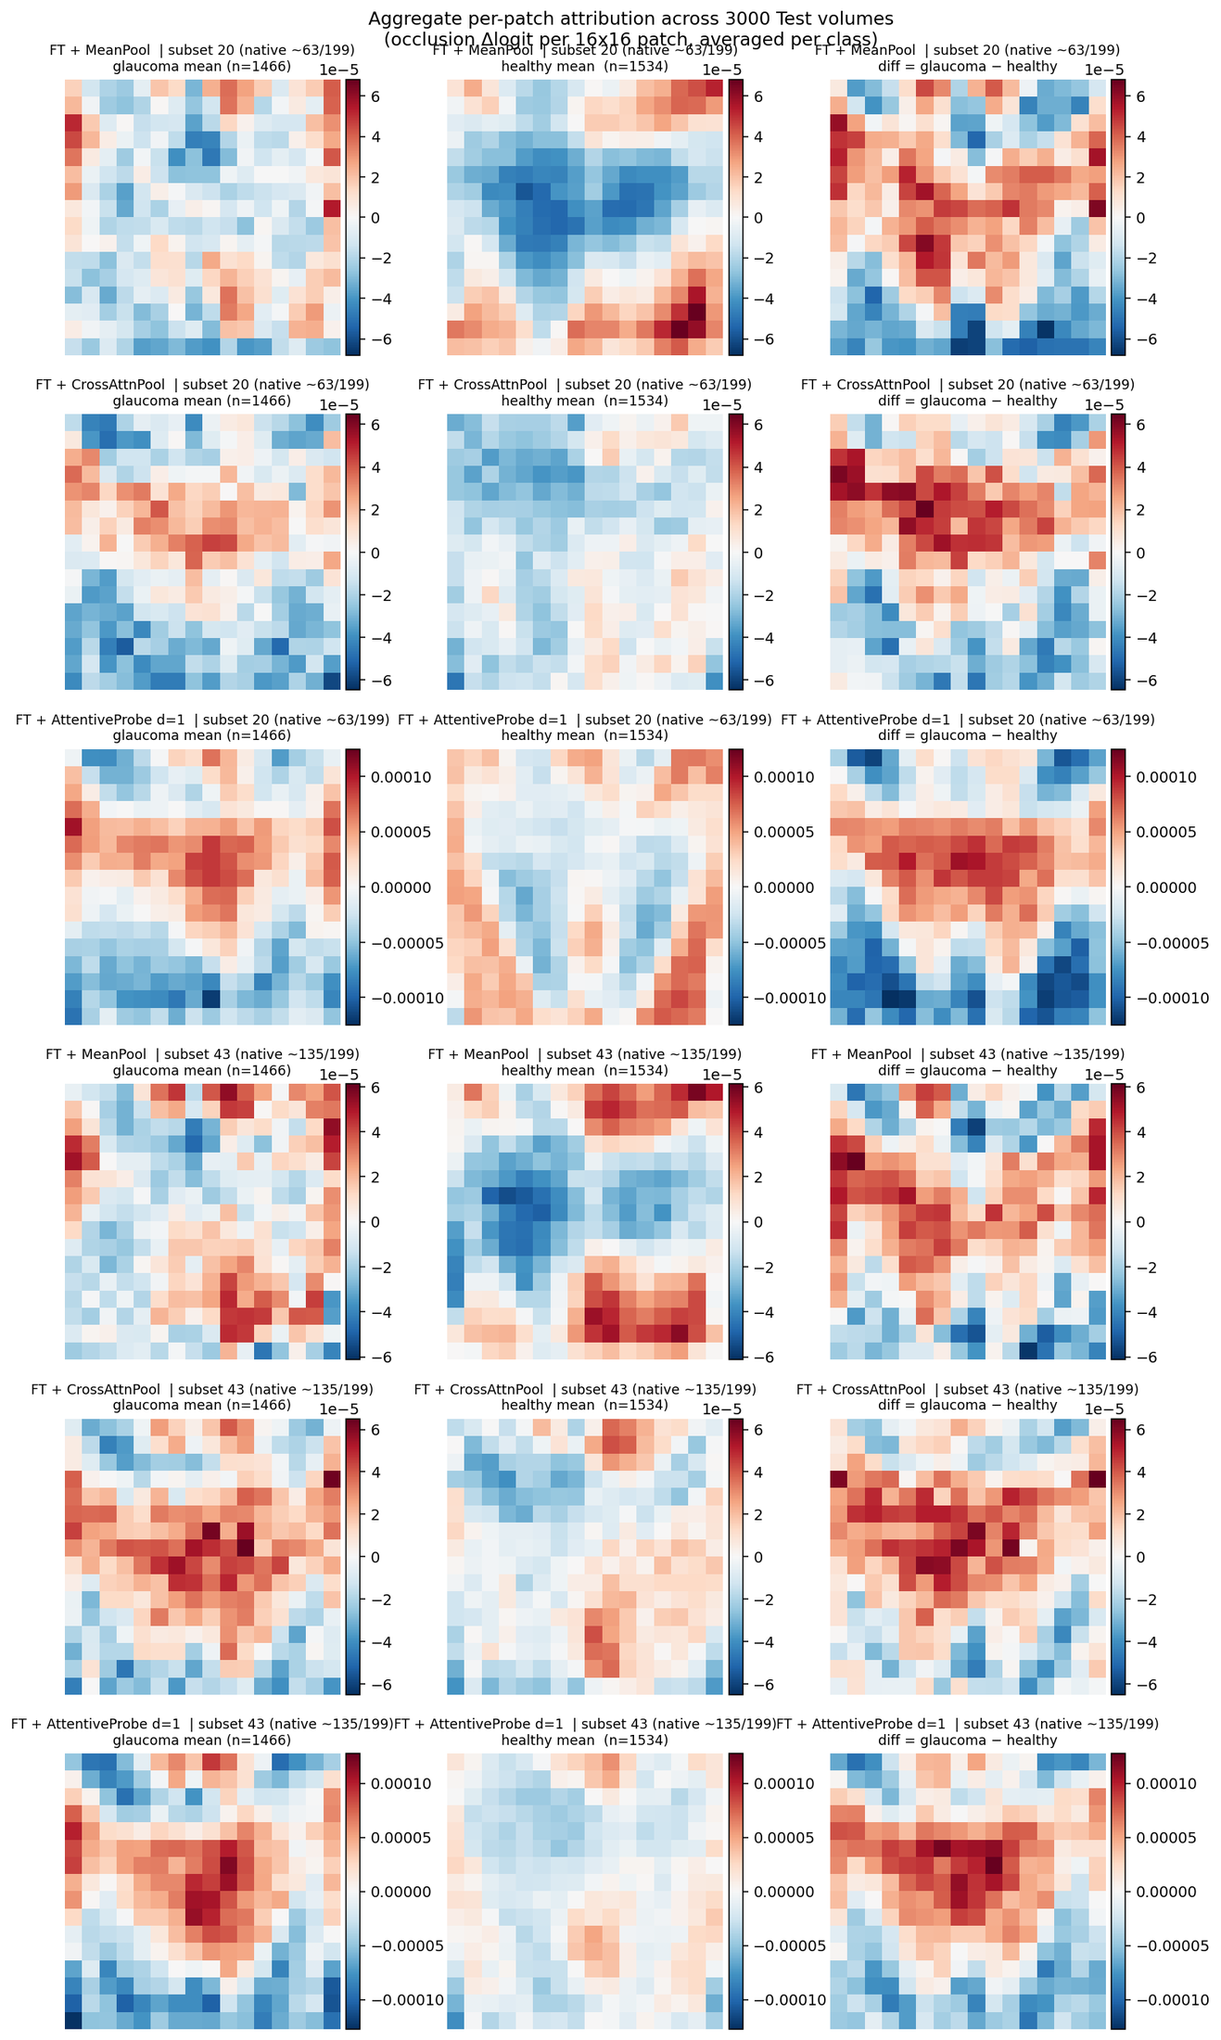
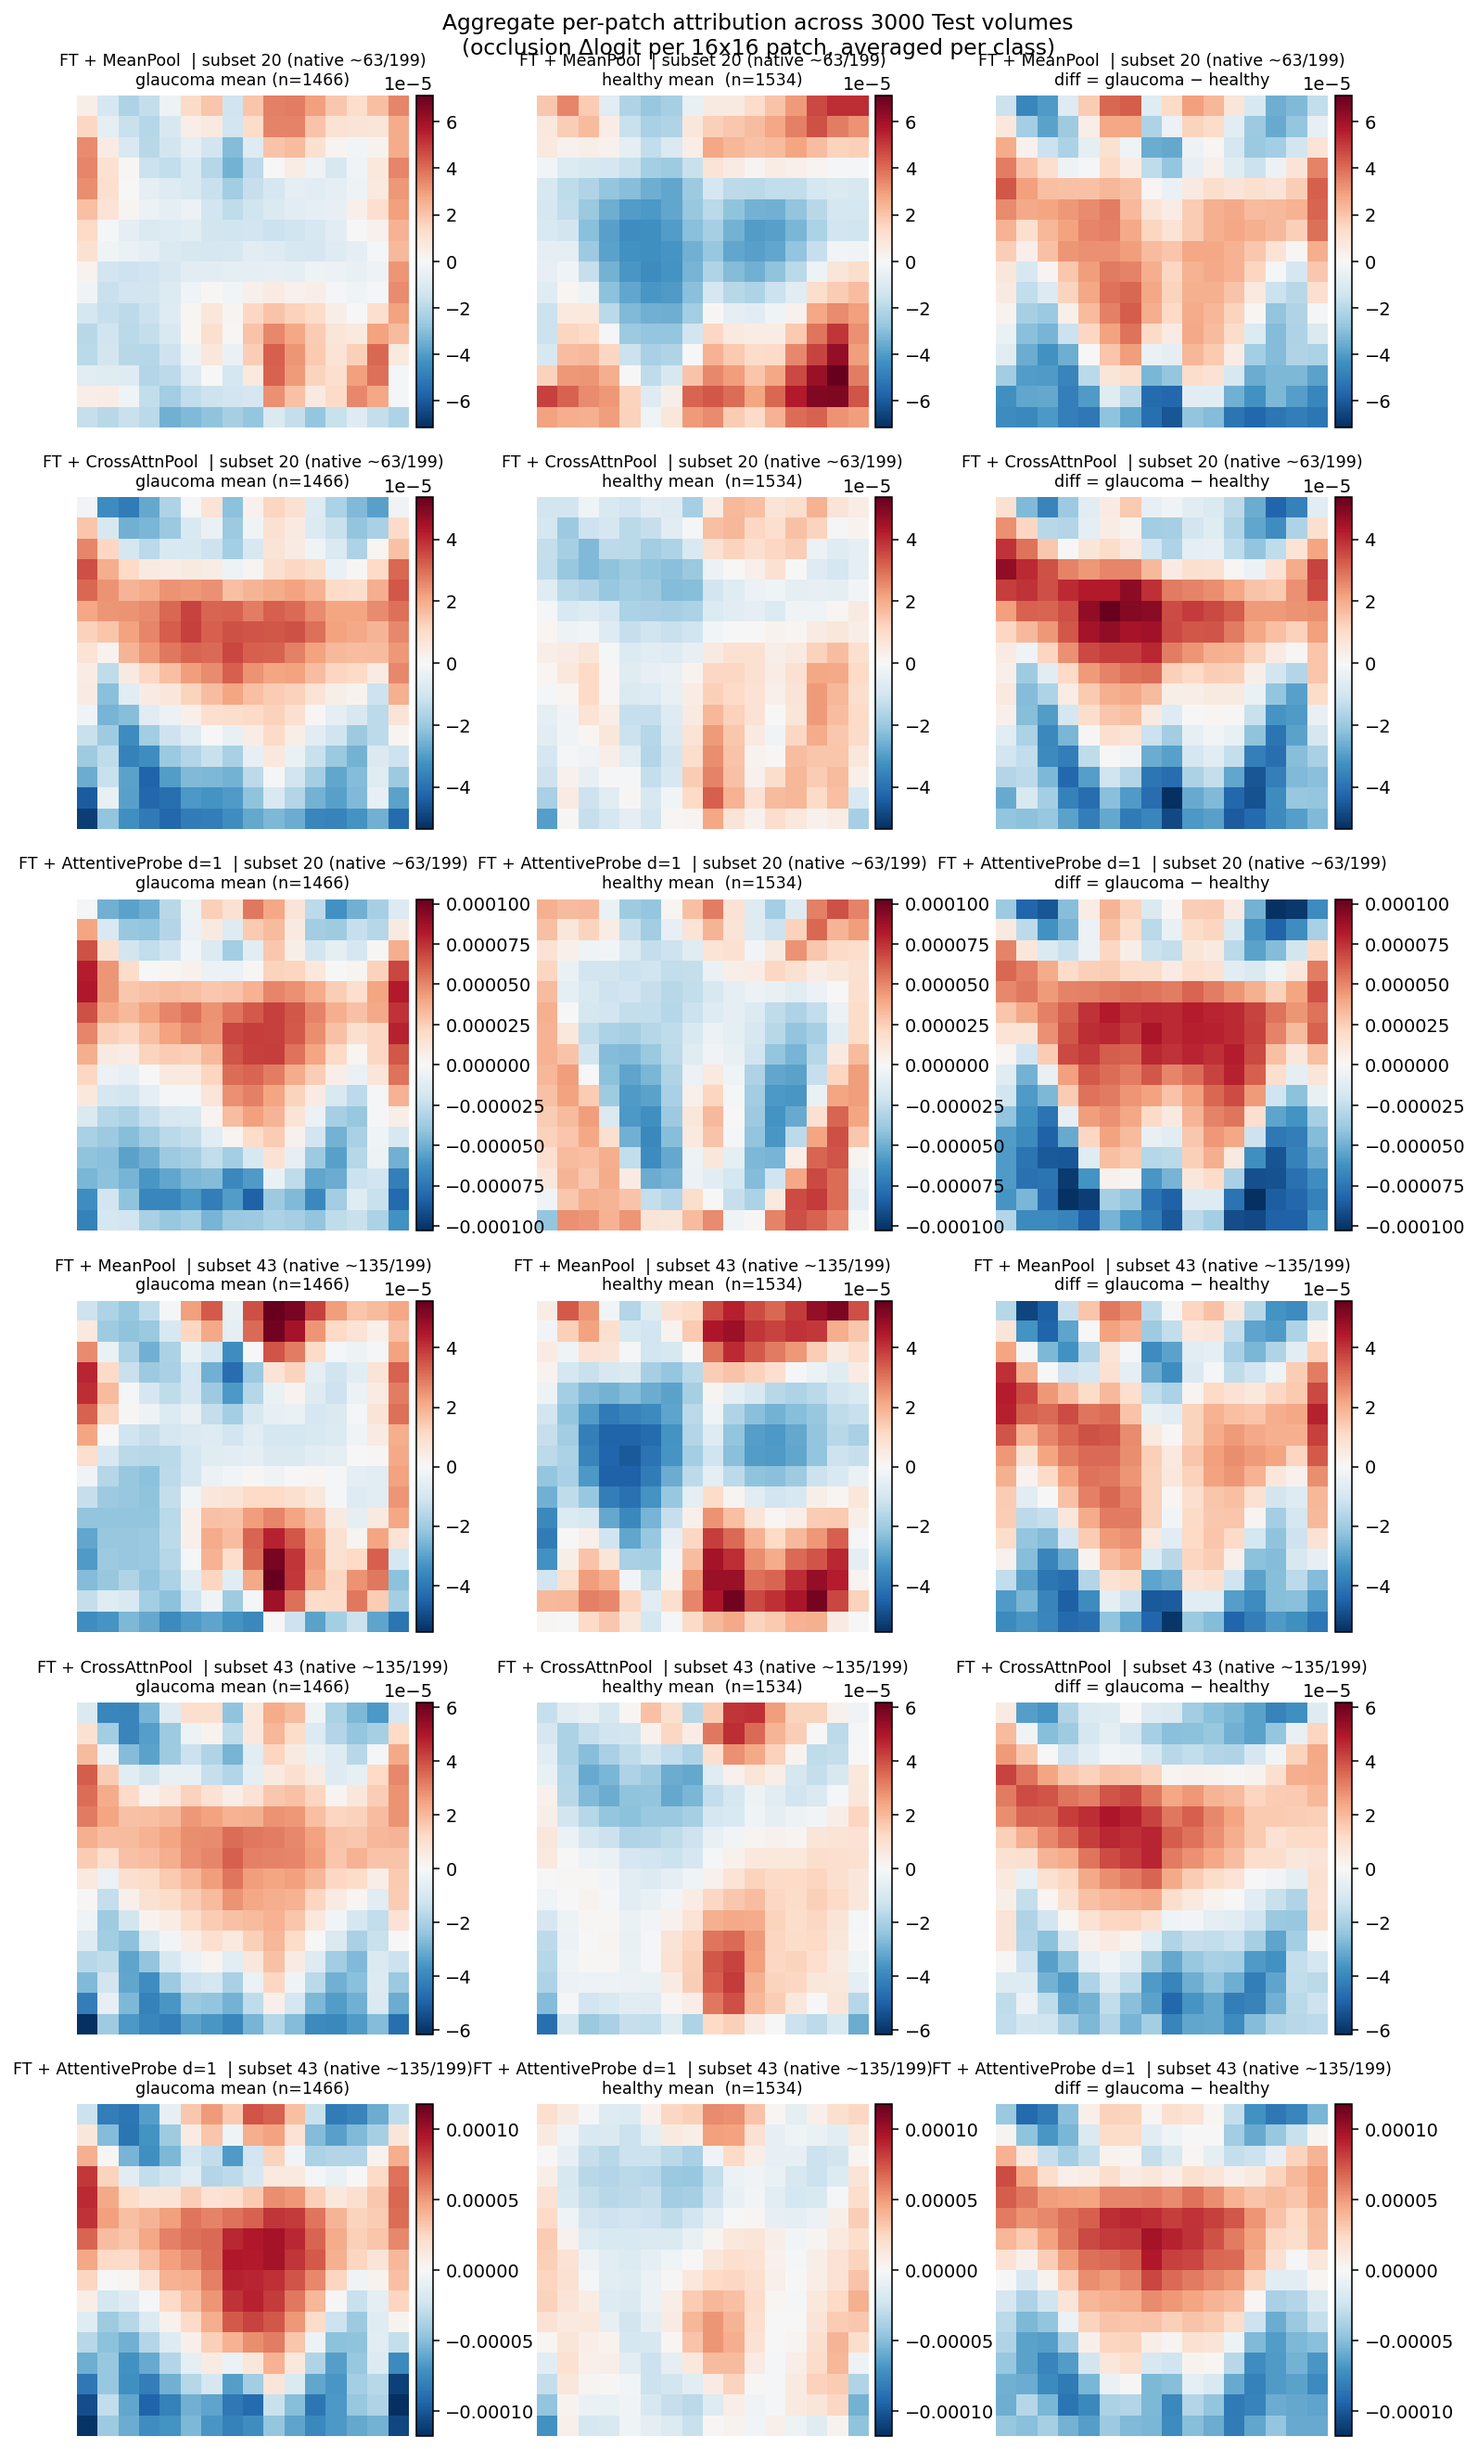
Refresh patch-level interpretability from fp32 rerun
AML job bright_store_h0tdrcmg6n (blob prefix patch_aggregate_20260421_084000)
reran patch_aggregate.py with the autocast removed. Key numbers moved
significantly because the prior fp16 ULP floor had been inflating absolute
magnitudes and masking genuine cross-probe correlation:

- Global max |Δ_patch|: MeanPool ±0.00071 (was ±0.0078), CrossAttn ±0.0024
  (was ±0.0039), d=1 ±0.0047 (was ±0.0049). MeanPool is 13x smaller than
  the fp16 artifact claimed.
- Cross-probe patch-level r (per-volume) rose from ≈0.10 to 0.33-0.48
  across all pairs. The "same slices, different patches" framing in the
  earlier version was a precision artifact.
- Per-patch bootstrap CI significance on glaucoma means rose from
  "14-65% of patches" to 84-91% across probes/slices.
- Slice- and window-level numbers untouched (those deltas are orders of
  magnitude above the fp16 floor).

Updates:
- docs/experiments/interpretability.md: Claims 7 and 9 rewritten; the
  "Cross-model agreement" table swapped to r ≈ 0.35-0.48; BC subsection
  rewritten with the new ±0.003 shared scale; caveat converted to a
  "how this was fixed" note with the job name.
- README.md: patch-level r corrected from 0.10 to 0.35-0.48.
- results/summary/: refreshed 05_patch_aggregate.png, 09_cross_probe_
  patch_agreement.png, 11_patch_ci_significance.png, heatmap_grid_BC.png.

diff --git a/docs/experiments/interpretability.md b/docs/experiments/interpretability.md
@@ -46,22 +46,22 @@ Zeroing 7 consecutive slices instead of 1 amplifies the signal ~7× (peaks reach
 | 4 | **Window occlusion (W=7) amplifies the signal ~7× and cleans it** | figure above |
 | 5 | Per-patch attribution concentrates on the B-scan center | [`05_patch_aggregate.png`](../../results/summary/05_patch_aggregate.png) |
 | 6 | Individual B-scans show clinical landmarks (RNFL thinning, cup excavation) | embedded below |
-| 7 | **Probes agree at slice granularity, not patch granularity** (r=0.94 → r=0.10) | embedded below |
+| 7 | **Probes agree strongly at slice level (r=0.94) AND meaningfully at patch level (r=0.35–0.48)** | embedded below |
 | 8 | Window occlusion recovers 25× more signal than single-slice for MeanPool | [`10_completeness_window.png`](../../results/summary/10_completeness_window.png) |
-| 9 | **14-65% of patches are statistically non-zero** (95% bootstrap CI) | [`11_patch_ci_significance.png`](../../results/summary/11_patch_ci_significance.png) |
+| 9 | **84–91% of patches are statistically non-zero** (95% bootstrap CI, glaucoma class, B=500) | [`11_patch_ci_significance.png`](../../results/summary/11_patch_ci_significance.png) |
 | 10 | Attribution structure is nearly invariant to prediction confidence | [`13_attribution_vs_confidence.png`](../../results/summary/13_attribution_vs_confidence.png) |
 
-## Cross-model agreement — same slices, different patches
+## Cross-model agreement — strong at slice level, moderate at patch level
 
-| Pair | Slice-level r | Patch-level r (per-volume, 2 slices) | Interpretation |
+| Pair | Slice-level r | Patch-level r (per-volume, slice 20 / 43) | Interpretation |
 |---|---|---|---|
-| MeanPool vs CrossAttnPool | **0.94** | 0.08 / 0.10 | **Same slices, different patches** |
-| MeanPool vs d=1 | 0.53 | 0.11 / 0.10 | d=1 is noisier throughout |
-| CrossAttnPool vs d=1 | 0.59 | 0.09 / 0.10 | Same |
+| MeanPool vs CrossAttnPool | **0.94** | **0.45 / 0.48** | Strong slice agreement; moderate patch agreement |
+| MeanPool vs d=1 | 0.53 | 0.36 / 0.33 | Both lower; d=1 the least similar to the pooling pair |
+| CrossAttnPool vs d=1 | 0.59 | 0.41 / 0.46 | Moderate agreement at both levels |
 
 ![Cross-probe patch agreement](../../results/summary/09_cross_probe_patch_agreement.png)
 
-The probes robustly agree on WHICH slices are informative, but each picks a different patch subset within those slices. The disease signal is redundantly distributed across multiple patch groups within each informative slice — each probe learns its own subset.
+After removing the fp16 precision floor in the occlusion pipeline (see caveat below), the probes show substantial patch-level agreement (r ≈ 0.35–0.48) — not the near-zero r ≈ 0.10 reported in the earlier version. Slice-level agreement (0.94) is still considerably stronger, so the hierarchy "slice > patch" stands; but the "same slices, different patches" claim from the first version was largely a precision artifact. The probes look at overlapping patches, just less tightly than they agree on slices.
 
 Representative B-scan overlays (6 curated examples, 1 TP + 1 TN per probe) with patch-level heatmaps:
 
@@ -71,16 +71,16 @@ Visible clinical anatomy in these examples: RNFL thinning (MeanPool glaucoma, to
 
 ### Reading these maps honestly: shared-scale + slice-mean subtraction
 
-The per-subplot color scaling above (`vmax = |Δ|.max()` per image) can make a map whose deltas are all in a narrow range like +0.002..+0.008 saturate to "solid blue," which looks more interpretable than it is. Two post-hoc transforms disambiguate:
+The per-subplot color scaling in the overlay above (`vmax = |Δ|.max()` per image) can make a map with a narrow dynamic range saturate to "solid blue," looking more decisive than it is. Two post-hoc transforms disambiguate:
 
-- **B**: use a shared zero-centered vmax across all cells. For 6 curated examples (1 TP + 1 TN per probe, slice 20 or 43 chosen per volume by signal magnitude), the global max |Δ| is **±0.0078** — i.e., the entire patch-level signal lives in a very narrow band. Under shared scale most cells look near-white, which is the honest rendering.
-- **C**: plot `Δ_local(p) = Δ(p) − mean(Δ)` to strip the "whole slice matters as a unit" component. The residual reveals within-slice spatial structure at a similar magnitude to the mean — evidence that local variation exists, but does not dominate.
+- **B** — shared zero-centered vmax across all cells. For 6 curated examples (1 TP + 1 TN per probe, slice 20 or 43 chosen per volume by signal magnitude), the global max |Δ| in the fp32 occlusion is **±0.003** — still narrow, confirming the per-patch signal is small in absolute terms.
+- **C** — plot `Δ_local(p) = Δ(p) − mean(Δ)`. Strips the "whole slice matters as a unit" component and exposes within-slice spatial structure.
 
 ![Heatmap B+C comparison](../../results/summary/heatmap_grid_BC.png)
 
-Operationally: the patch-level heatmaps in `heatmap_grid.png` mostly reflect *which slice* the probe has decided is informative. The per-patch Δlogit is small (max ±0.008 in our curated set) because each patch contributes ~1/256 of the slice mean for MeanPool/CrossAttnPool; what little local structure exists is not the dominant attribution signal. This is consistent with the patch-level cross-probe r ≈ 0.10 above: slice-level is where the probes agree and where the interpretation is well-posed.
+Operationally: even with fp32 occlusion, per-patch Δlogit stays small (±0.003 in the curated set) because each patch contributes ~1/256 of the slice mean. What changes vs the fp16 version is that the within-slice variation is now continuous (not ULP-quantised), and the per-patch map genuinely reflects spatial structure rather than rounding steps. This is consistent with the new cross-probe patch r ≈ 0.35–0.48 above — there IS meaningful spatial agreement between probes, hidden under fp16 quantisation noise in the earlier analysis.
 
-> **Caveat on the current patch-level numbers**: the original `patch_aggregate.py` and the phase-3 heatmap path in `interpretability.py` ran probe+head under `autocast()`, so the patch-level Δlogit values carried fp16 precision. The subtraction of two near-equal fp16 logits snapped the per-patch delta to fp16 ULPs (global max ±0.008 across all 3000 volumes — essentially a few discrete steps). The `04_ …` slice-level and window-level figures are unaffected (those deltas are ±0.03–0.22, well above the fp16 floor), but patch-level numbers (±0.008 max, 14–65% significant patches, cross-probe patch r ≈ 0.10) predate the fix and will be refreshed from the next rerun of `run_patch_aggregate.sh`.
+> **Note on how this was fixed**: the original `patch_aggregate.py` and the phase-3 heatmap path in `interpretability.py` ran probe+head under `autocast()`, so the per-patch Δlogit snapped to fp16 ULPs (global max ±0.008, effectively a handful of discrete steps). The slice- and window-level figures were always unaffected (those deltas are ±0.03–0.22, well above the fp16 floor). Patch-level figures and tables in this doc were refreshed from the fp32 rerun (AML job `bright_store_h0tdrcmg6n`, blob `ijepa-interpretability/patch_aggregate_20260421_084000/`).
 
 ## Completeness under occlusion
 
@@ -125,10 +125,11 @@ Stratifying by TP / FN / TN / FP: FN curves are scaled-down TP curves (same shap
 - A trivial MeanPool + Linear is Pareto-optimal for the fine-tune regime.
 - Errors come from weaker-signal, not wrong-anatomy; the attribution pattern is confidence-invariant.
 - Window occlusion (W=7) is the correct attribution primitive for mean-pool-based models; single-slice zero-mask systematically under-estimates signal.
+- At the patch level, probes show moderate agreement (per-volume r ≈ 0.35–0.48), weaker than slice-level but not near-zero; 84–91% of patches have 95% bootstrap CI excluding zero on glaucoma means.
 
 **Claims to avoid without more evidence**:
 - "The model discovers superior + inferior disc rim" — unsupported without OD/OS flipping.
-- "The three probes look at the same pixels" — they don't (patch-level r ≈ 0.10).
+- "The three probes look at entirely different patches" — the earlier r ≈ 0.10 reading was driven by fp16 quantisation; after the fix, patch-level agreement is moderate (r ≈ 0.35–0.48), not negligible.
 
 ## Reproducibility
 

diff --git a/README.md b/README.md
@@ -35,7 +35,7 @@ Window occlusion (W=7 consecutive slices) gives ~7× cleaner signal than single-
 
 ![Window occlusion (W=7) across 3 fine-tune probes](results/summary/04_window_occlusion_W7.png)
 
-At the patch level, per-volume correlation between probes drops to ~0.10 — the probes agree on *which slices* matter but each picks a different patch subset within those slices. Full writeup + 10 findings (including an OD/OS retraction on the earlier "bilateral disc rim" reading): [`docs/experiments/interpretability.md`](docs/experiments/interpretability.md).
+At the patch level, per-volume correlation between probes is more moderate (r ≈ 0.35–0.48 after an fp16-precision fix on the occlusion pipeline; the earlier r ≈ 0.10 was driven by fp16 ULP quantisation) — probes agree strongly on *which slices* matter and meaningfully on which patches within, though less tightly than at the slice level. Full writeup + 10 findings (including an OD/OS retraction on the earlier "bilateral disc rim" reading and the fp16 precision fix): [`docs/experiments/interpretability.md`](docs/experiments/interpretability.md).
 
 Pretraining-epoch sweep (ep25/50/75/100) lives at [`docs/experiments/frozen/d1_sweep.md`](docs/experiments/frozen/d1_sweep.md).
 
